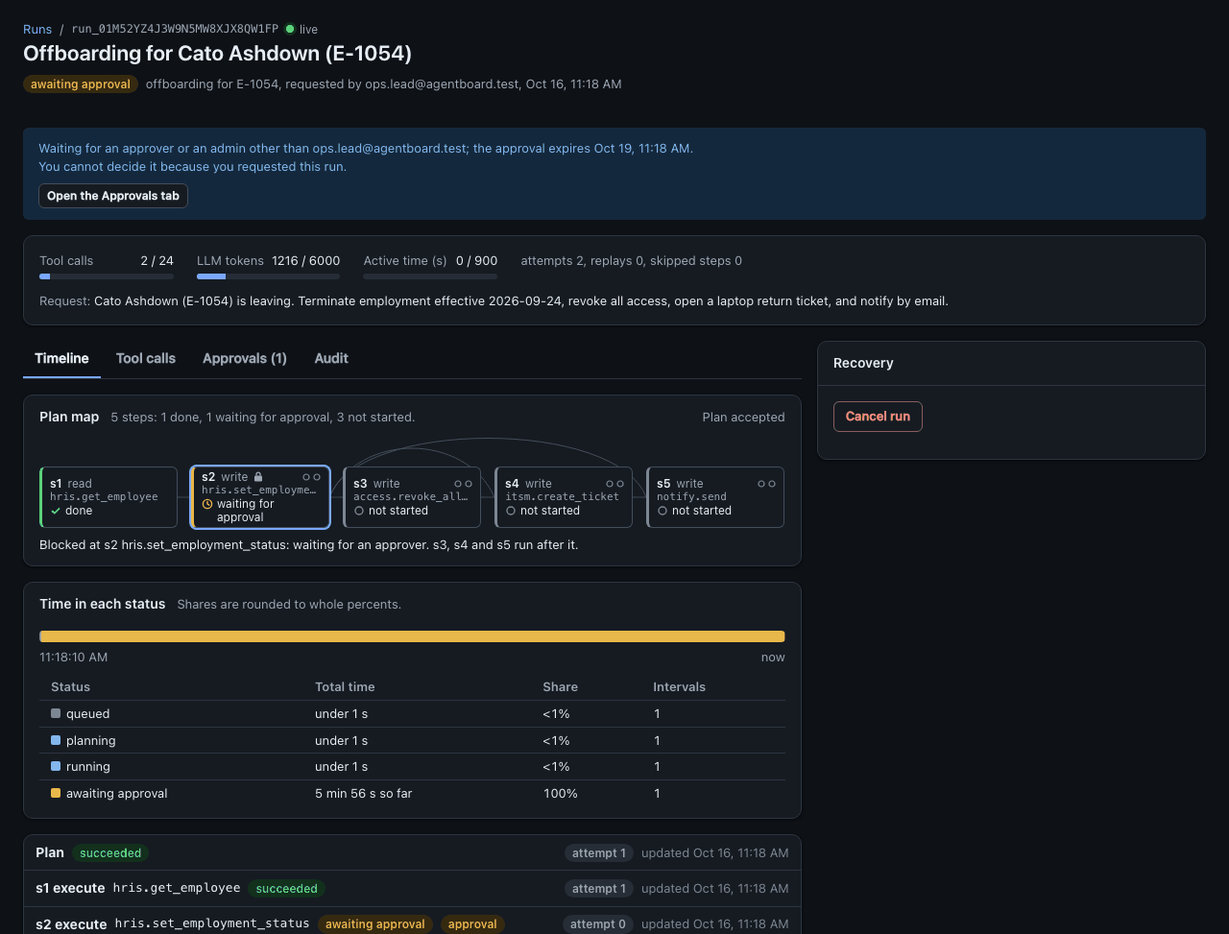
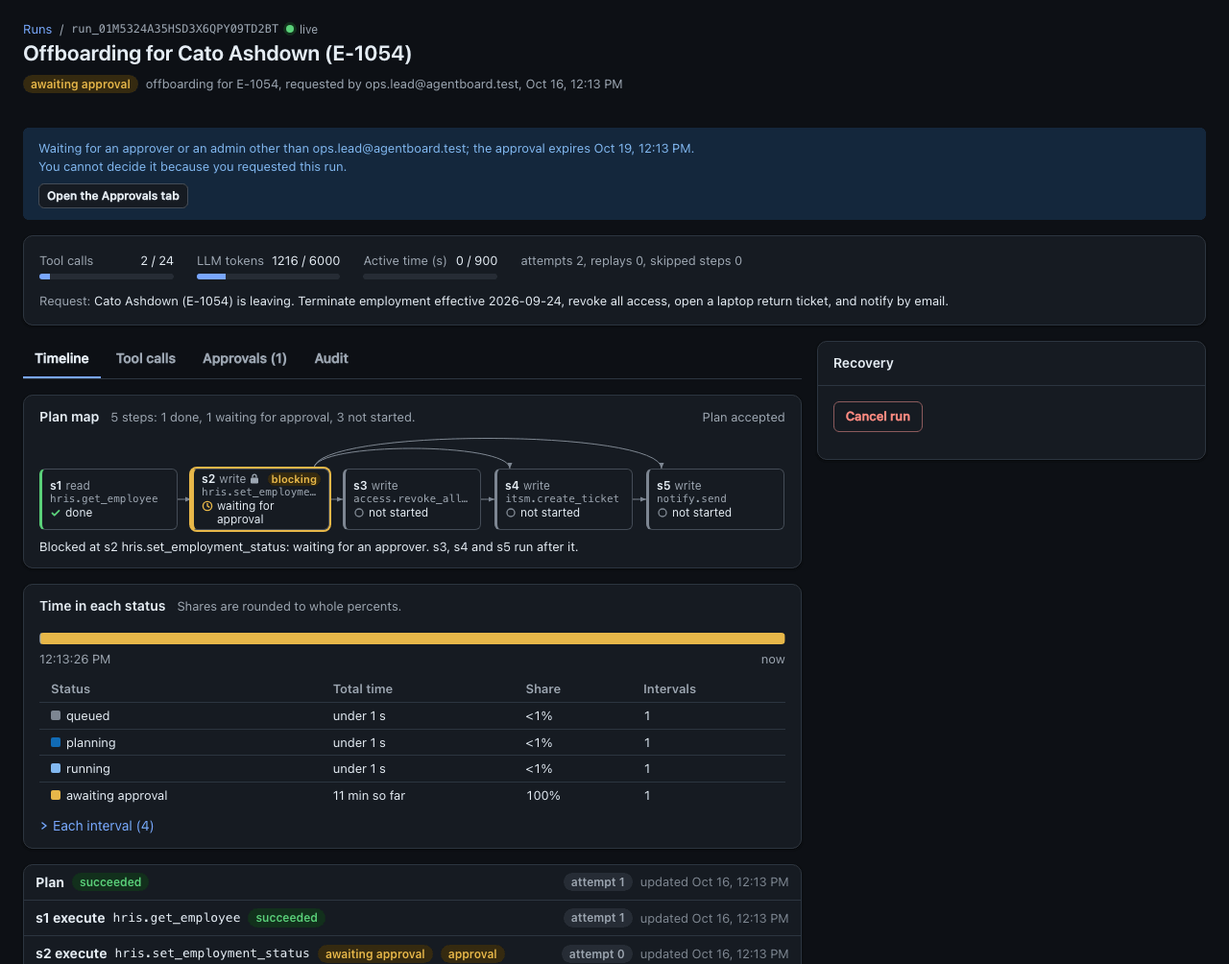
docs: the status view fixes in USER-WORKFLOWS, DEMO, the CHANGELOG and the README, with new run detail screenshots
USER-WORKFLOWS gets "Fixed after review (2026-10-16)" with the nine
findings and what changed, and its walkthroughs describe the blocker's
ring and word, the connectors and "Each interval". Its item on the run
lists no longer names `task_failed:injected_permanent` as a code the
lists stopped showing: a failure without a sentence of its own still
shows its code in parentheses, and the item says so.

DEMO.md said the notification step reads "runs after s2". On a wide
screen the dependency is a connector with an arrowhead; on a phone the
node reads "after s2"; "runs after s2" is the end of its accessible name.

The Events card claim is corrected: at 1280x800 on a local offboarding
waiting for its approval it starts at 1388 px, against 1368 px before
the status views and 1357 px before the "Each interval" line was added.

The five run detail screenshots (Timeline at 1280 and 375 px in both
themes, and the run whose write the verifier found missing) were taken
again from a local build with these fixes; the dashboard, runs and
approval screenshots show nothing these fixes change. The README links
the new section and counts 317 web tests.

diff --git a/docs/USER-WORKFLOWS.md b/docs/USER-WORKFLOWS.md
@@ -41,7 +41,7 @@ A principal without a role binding sees one page: "You are signed in as <email>,
 Follow a run:
 
 1. Dashboard opens with "Needs a person": "Pending approvals" ("Approvers and admins decide these"), "Needs attention" (for example "oldest unchanged for 2 h" and "3 need an operator, 1 an admin"), "Held by a disabled role" and "Paused", each a link to where that work is. Under "Moving" one tile counts "Active (queued, planning, running)" with "longest without a change: ..." and a line reads "87 succeeded, 6 rejected, 4 cancelled (all time)." Then come the "Needs attention" and "Recent runs" lists and "Agent roles". A viewer gets no "Open dead letters" tile; that tile and the "Dead-letter queue" panel are for operators and admins.
-2. In the run lists, "Waiting on" says who acts next and why, in words ("Admin" and "out of budget", "Approver" and "waiting for an approval", "Admin" and "held: a role is disabled"). Open a run from "Recent runs" or Runs. The header shows the status badge and, when the run waits or needs attention, a notice that says why and who can act (for example "Waiting for an approver or an admin other than ops.lead@agentboard.test; the approval expires ..."). The Timeline tab starts with the "Plan map": one node per step in columns by dependency, the step that blocks the run ringed, and a sentence such as "Blocked at s2 hris.set_employment_status: waiting for an approver. s3, s4 and s5 run after it." Each node is a button; Enter moves focus to that step's row in the task list. Under it, "Time in each status" shows the run's life on one bar with a table (Status, Total time, Share, Intervals), and the Events card shows "Key events" unless "All events (N)" is pressed.
+2. In the run lists, "Waiting on" says who acts next and why, in words ("Admin" and "out of budget", "Approver" and "waiting for an approval", "Admin" and "held: a role is disabled"). Open a run from "Recent runs" or Runs. The header shows the status badge and, when the run waits or needs attention, a notice that says why and who can act (for example "Waiting for an approver or an admin other than ops.lead@agentboard.test; the approval expires ..."). The Timeline tab starts with the "Plan map": one node per step in columns by dependency, connectors with arrowheads from each step to the steps that wait for it, the step that blocks the run ringed in its state colour and marked "blocking", and a sentence such as "Blocked at s2 hris.set_employment_status: waiting for an approver. s3, s4 and s5 run after it." Each node is a button; Enter moves focus to that step's row in the task list. Under it, "Time in each status" shows the run's life on one bar with a table (Status, Total time, Share, Intervals), and "Each interval (N)" lists every interval with when it ran and how long. The Events card shows "Key events" unless "All events (N)" is pressed.
 3. The request line reads "Request text is hidden for your role (it needs personal-data access)."
 4. Use the tabs (Timeline, Tool calls, Approvals, Audit) with the mouse or with the arrow keys; the open tab is in the URL (`?tab=calls`), so a reload or a shared link keeps it.
 5. In Tool calls, open a call with its tool-name button or by clicking the row. A viewer sees "Personal data is redacted for your role: addresses show only city, region and country, and personal email addresses are masked." above the arguments and result.
@@ -72,7 +72,7 @@ If an agent role is disabled, the Launch page says so with the reason and who di
 
 Recover a run that needs attention:
 
-1. Open the run. The plan map's sentence names the blocked step and who acts (for example "Blocked at s2 hris.update_address: verification failed: ... An operator or an admin can retry s2 execute to run the write again."), and its node is ringed. The notice under the header names the cause and the next step for an operator (for example, with the stub planner: "The planner failed on every attempt." and "Cancel this run and launch a sample."; for a write the verifier found missing: "Retry s2 execute (hris.update_address) in Recovery to run the write again; retrying s2 verify only reads the record again.").
+1. Open the run. The plan map's sentence names the blocked step and who acts (for example "Blocked at s2 hris.update_address: verification failed: ... An operator or an admin can retry s2 execute to run the write again."), and its node is ringed in red and marked "blocking". The notice under the header names the cause and the next step for an operator (for example, with the stub planner: "The planner failed on every attempt." and "Cancel this run and launch a sample."; for a write the verifier found missing: "Retry s2 execute (hris.update_address) in Recovery to run the write again; retrying s2 verify only reads the record again.").
 2. On a phone-width screen the Recovery card comes before the tabs when the run needs attention or is paused.
 3. Click a recovery button ("Pause run", "Cancel run", "Retry", "Release lease"). Task rows list a step's execute task before its verify task, and each task button's name for screen readers includes its task ("Retry s2 execute (hris.update_address)"). The dialog asks for "Reason (recorded in the audit log)"; Escape closes it, Tab stays inside it, and after Escape or Cancel focus returns to the button.
 4. Click "Confirm". The Recovery card says what happened ("Paused the run.", "Retry of the plan task requested.") or why the coordinator refused, in plain words, and focus moves to that line, because the command often replaces or removes its own button (Pause becomes Resume).
@@ -154,10 +154,10 @@ A review of the round above drove each persona through the console with Playwrig
 
 A round of visuals that answer a question a persona actually has, each built from data the API already returned or from a small read-only addition with the same permission check. Each item is a commit in this repository with its tests. Screenshots were taken locally (`npm run serve:built` with synthetic runs launched through the API, Chromium through Playwright), not in production.
 
-1. **Plan map (every role: where is this run, which step blocks it, what waits behind that step).** The task list showed one card per task, so the gating edges that make every write wait for the approval were invisible, and the step that blocked a run had to be found by reading every row. The Timeline tab now starts with a map of the plan: one node per step in columns by dependency (a gating edge that skips steps arcs above the row), the blocking step ringed, and one sentence that names it and who acts, in the run notice's words. Every node shows its state as a word and an icon, so nothing depends on colour, and is a button named like "s3 access.revoke_all_roles, write, not started, runs after s2"; activating it moves focus to that step's execute row. It draws from the tasks the page already holds, so the run page makes the same requests as before. Below 721 px it is a vertical stepper whose sentence comes first. The task list became one dense row per task, and on wide screens the plan line shares the map's caption row, so with the map and the status table below added the Events card still starts a little higher than before (1357 px from the top at 1280x800 on a local offboarding run waiting for its approval, against 1368 px before this round).
-2. **Time in each status (operator and approver: how long has this run been in its state, and where did its time go).** The answer was spread over about 30 to 50 audit rows. A bar on a real time axis now shows the run's intervals (waiting for an approval and paused in the warning colour, needing attention in the danger colour), with a table of each status's total time, share and number of intervals as its text alternative. The open interval grows from the client clock. The Events card shows key events by default (status changes, plan, approvals, final failures, retries, holds, budget and dead-letter events) and every event on request. The timeline API adds `statusFrom` and `statusTo` to status changes, as enum values only.
+1. **Plan map (every role: where is this run, which step blocks it, what waits behind that step).** The task list showed one card per task, so the gating edges that make every write wait for the approval were invisible, and the step that blocked a run had to be found by reading every row. The Timeline tab now starts with a map of the plan: one node per step in columns by dependency (a gating edge that skips steps arcs above the row), the blocking step ringed, and one sentence that names it and who acts, in the run notice's words. Every node shows its state as a word and an icon, so nothing depends on colour, and is a button named like "s3 access.revoke_all_roles, write, not started, runs after s2"; activating it moves focus to that step's execute row. It draws from the tasks the page already holds, so the run page makes the same requests as before. Below 721 px it is a vertical stepper whose sentence comes first. The task list became one dense row per task, and on wide screens the plan line shares the map's caption row, so with the map and the status table below added the Events card still started a little higher than before (1357 px from the top at 1280x800 on a local offboarding run waiting for its approval, against 1368 px before this round). The "Each interval" line added after review (below) moves it to 1388 px.
+2. **Time in each status (operator and approver: how long has this run been in its state, and where did its time go).** The answer was spread over about 30 to 50 audit rows. A bar on a real time axis now shows the run's intervals, each status in a colour of its own (amber and brown for waiting for an approval and paused, red for needing attention, two blues for planning and running), with a table of each status's total time, share and number of intervals as its text alternative. The open interval grows from the client clock. The Events card shows key events by default (status changes, plan, approvals, final failures, retries, holds, budget and dead-letter events) and every event on request. The timeline API adds `statusFrom` and `statusTo` to status changes, as enum values only.
 3. **"Needs a person" on the Dashboard (operator and admin: where is work stuck, for how long, who must act; approver: how many approvals can I decide, and when does the next expire).** Eight equal tiles gave "succeeded 87" the same weight as "needs attention 6", and the approver's work was a small button in the header. The first row now holds only work that waits for a person, with ages and the actor in words, each tile a link to where the work is done. Finished runs are one line. Viewers and approvers no longer get a dead-letter count for a panel they cannot open (the API sends them null).
-4. **Who acts next in the run lists (operator: which runs need me and why; admin: which need an admin; approver: which wait on an approval).** The lists printed raw codes such as `budget_exhausted` and `task_failed:injected_permanent`, a run whose tasks were held by a disabled role read only "running", and at 375 px the table was 910 px wide in a 341 px box, so no row showed its status. A "Waiting on" column now names the actor and the reason in words, a held run reads "held: a role is disabled" with the Admin chip, and phones get one card per run with its status and "Waiting on" first.
+4. **Who acts next in the run lists (operator: which runs need me and why; admin: which need an admin; approver: which wait on an approval).** The lists printed raw codes such as `budget_exhausted` and `task_failed:permanent_error`, a run whose tasks were held by a disabled role read only "running", and at 375 px the table was 910 px wide in a 341 px box, so no row showed its status. A "Waiting on" column now names the actor and the reason in words ("Admin" and "out of budget", "Operator" and "the tool refused the call"), a held run reads "held: a role is disabled" with the Admin chip, and phones get one card per run with its status and "Waiting on" first. A task failure without a sentence of its own still shows its code in parentheses, for example "a task failed (injected_permanent)" for a simulation fault.
 5. **What approving unlocks (approver, at the moment of decision: if I approve this, which writes run next on this person's record?).** The card showed only the gated step. Approving a termination also releases `access.revoke_all_roles`, which has no approval of its own. The card now lists what already ran, the step that needs this approval and the writes that run after it, and says what a rejection does.
 6. **Approval queue by urgency (approver: which approval should I decide first so none expires?).** The pending tab listed the newest first, 50 at a time with no paging, so once more than 50 waited the ones closest to expiring were not shown at all. It now lists the soonest expiry first and opens with a summary line, and each pending card has a time-left meter that turns to the warning colour under 24 hours and the danger colour under 6, with the time left always in words.
 
@@ -165,9 +165,9 @@ Screenshots, all from the same local build and synthetic runs, signed in as the 
 
 ![Dashboard at 1280 px as an operator: the "Needs a person" tiles, the Moving tile and the Needs attention list with its Waiting on column](screenshots/dashboard-1280-light.png)
 
-![Run detail at 1280 px for an offboarding waiting for its approval: the plan map with s2 ringed, the gating arcs to s4 and s5, the blocking sentence, and Time in each status](screenshots/run-timeline-1280-light.png)
+![Run detail at 1280 px for an offboarding waiting for its approval: the plan map with s2 ringed in amber and marked blocking, the gating arcs from s2's top edge to s4 and s5, the blocking sentence, and Time in each status](screenshots/run-timeline-1280-light.png)
 
-![Run detail at 1280 px for an address change whose write the verifier found missing: the plan map rings s2 with "verification failed" and says an operator or an admin can retry s2 execute; Time in each status shows most of the run's life as needs attention](screenshots/run-needs-attention-1280-light.png)
+![Run detail at 1280 px for an address change whose write the verifier found missing: the plan map rings s2 in red, marked blocking, with "verification failed" and says an operator or an admin can retry s2 execute; Time in each status shows most of the run's life as needs attention](screenshots/run-needs-attention-1280-light.png)
 
 ![The approval queue at 1280 px in the dark theme: the summary line, time-left meters, and What approving unlocks open on a termination](screenshots/approvals-1280-dark.png)
 
@@ -185,4 +185,18 @@ Every view at both widths and in both themes:
 | Approval queue (summary line, time-left meters, What approving unlocks) | [light](screenshots/approvals-1280-light.png) | [dark](screenshots/approvals-1280-dark.png) | [light](screenshots/approvals-375-light.png) | [dark](screenshots/approvals-375-dark.png) |
 
 Server changes in this round are read paths only, each behind `runs:read` like before: four fields added to `/api/metrics/summary` (and `dlqOpen` null without `dlq:read`), `heldTasks` on run summaries, the pending approvals' order and cursor, and two enum fields on timeline status changes. Authorization, approvals, idempotency, budgets and redaction are unchanged.
+
+## Fixed after review (2026-10-16)
+
+A review of the status views drove them with Playwright against `npm run serve:built` and found these problems. Each was checked in the code and the browser before it was fixed; each is a commit with its tests, and none touches the server. The run detail screenshots above were taken again after the fixes.
+
+1. **Gating arcs pointed at the wrong step.** An arc that skipped steps left the source's right side and rose behind the next step, whose box is opaque, so on an offboarding the s2 to s4 and s2 to s5 arcs seemed to come out of s3: the map pointed at the wrong step as the one that holds the others back. Arcs now leave the source's top edge and land on the target's top edge, a longer arc flying higher, and an edge that skips columns outside the first row runs through the gaps between steps. A test samples every connector and checks that none passes behind a step that is neither its source nor its target.
+2. **The blocker looked like keyboard focus.** Both were a 2 px blue ring, so with focus on another step two nodes looked the same. The blocking step's ring now takes its state colour (amber or red), the node says "blocking", and its name for screen readers adds "blocking the run"; focus stays the blue outline.
+3. **Faint connectors.** On wide screens the connectors are the only sign of a dependency ("after s2" is shown only on phones), and they measured 1.83:1 against the card in light and 2.02:1 in dark. They now use the faint text colour (3.07:1 and 4.75:1) and end in an arrowhead at the step that waits.
+4. **Statuses sharing a colour.** Planning and running were the same blue and awaiting approval and paused the same amber, so neighbouring segments looked like one band and two rows of the table had the same swatch. Each status now has its own colour. The palette check also failed the old amber and red pair (awaiting approval, then needs attention after an approval expires) for normal vision, so needs attention moved to a lighter red. Every pair that can touch on the bar now passes the checks for normal and colour-blind vision, and a test computes them from the colour tokens.
+5. **Intervals only in the tooltip.** Each interval's start and end could be read only by moving through the bar with the arrow keys, which screen readers in browse mode do not pass to the bar, and the bar's name told them to. The tooltip was also read out when the mouse moved over the bar. "Each interval (N)" now lists every interval with when it ran and how long, the bar's name points to it, and only arrow-key moves are announced.
+6. **Unexplained marks.** Each write step showed two small marks for write and verify progress with no explanation. They are gone: the state word says where the step is, and the task list below names each task's status.
+7. **Dashboard names and headings.** The "Needs attention" tile's name for assistive technology ("3 runs need attention, ...") did not contain its visible label, so a voice command such as "click Needs attention" could miss it. Every tile's name now starts with its label ("Needs attention: 3 runs, oldest unchanged for 10 minutes, ..."). The lists and agent panels now sit under headings of their own ("Runs", "Agents and dead letters"; read by screen readers, not shown) instead of reading as parts of "Moving".
+8. **Untested loading and error states.** Tests now cover "Time in each status" and the Events card while the timeline loads, after it fails, and after Try again.
+9. **Docs.** `DEMO.md` said the notification step reads "runs after s2"; on a wide screen the dependency is a connector, and on a phone the node reads "after s2". This page used `task_failed:injected_permanent` as a code the lists no longer show, but a failure without a sentence of its own still shows its code; item 4 above now says so.
 

diff --git a/README.md b/README.md
@@ -8,9 +8,9 @@ AgentBoard is an operations console for launching, monitoring and controlling ag
 
 **Live demo.** [`docs/DEMO.md`](docs/DEMO.md) is the interview walkthrough of the production deployment: an operator's request, an approval and a rejection in a second window, talking points tied to the results files, and a local fallback.
 
-**User workflows.** [`docs/USER-WORKFLOWS.md`](docs/USER-WORKFLOWS.md) walks through each persona's workflows in the console and lists what the 2026-10-15 workflow round changed and why, what a review of that round fixed, and the [2026-10-16 status views](docs/USER-WORKFLOWS.md#changed-on-2026-10-16): a plan map that shows which step blocks a run and what waits behind it, time in each status, a dashboard of the work that waits for a person, who acts next in the run lists, what approving an approval unlocks, and the approval queue in order of expiry, with screenshots of each view at 1280 and 375 px in the light and dark themes.
+**User workflows.** [`docs/USER-WORKFLOWS.md`](docs/USER-WORKFLOWS.md) walks through each persona's workflows in the console and lists what the 2026-10-15 workflow round changed and why, what a review of that round fixed, and the [2026-10-16 status views](docs/USER-WORKFLOWS.md#changed-on-2026-10-16): a plan map that shows which step blocks a run and what waits behind it, time in each status, a dashboard of the work that waits for a person, who acts next in the run lists, what approving an approval unlocks, and the approval queue in order of expiry, with screenshots of each view at 1280 and 375 px in the light and dark themes, and [what a review of those views fixed](docs/USER-WORKFLOWS.md#fixed-after-review-2026-10-16).
 
-![Run detail for an offboarding waiting for its approval: the plan map rings s2, arcs its gating edges to s4 and s5, and says who acts; Time in each status follows (local build, synthetic data)](docs/screenshots/run-timeline-1280-light.png)
+![Run detail for an offboarding waiting for its approval: the plan map rings s2 and marks it blocking, arcs its gating edges from s2's top edge to s4 and s5, and says who acts; Time in each status follows (local build, synthetic data)](docs/screenshots/run-timeline-1280-light.png)
 
 The design is in [`SPEC.md`](SPEC.md), the domain terms in [`CONTEXT.md`](CONTEXT.md), the main decisions in [`docs/adr/`](docs/adr) (coordinator leases and queues, the integration ledger and call-bound tokens, policy-owned approvals with gating edges, derived run status with recovery cascades, measured results with a staleness check), and the milestone demo scripts in [`demos/`](demos).
 
@@ -249,7 +249,7 @@ What changed for the Free plan: one outbox flush makes at most 16 binding calls 
 
 - `npm test` runs five projects: `worker` (workerd), `worker-ws` (WebSockets, isolation off as the Cloudflare known-issues page requires), `worker-access` (production Access verification against an intercepted JWKS), `web` (React components, pages, the API client and the session flows in happy-dom) and `node` (script math and launchers).
 - `npm run test:sim` drives all 100 synthetic requests through the real API, queue, coordinator, agents and MCP tools in workerd, with the same driver as `eval:sim`.
-- 110 tests are tagged `orchestration` or `authz`: the 100 planned in SPEC section 13.1, plus 4 added with the fixes of an independent review (`plan-guard.test.ts` #2, `planner.test.ts` #5 and #6, `websocket-auth.test.ts` #5), 2 added with later fixes (`planner.test.ts` #7, planner tasks sharing a catalog read in flight; `websocket-auth.test.ts` #6, WebSocket reauthorization), 2 added with the fixes of a second review (`state-machine.test.ts` "verify and plan recovery ..."; `executor.test.ts` "journal fast path ..."), 1 added for the Free plan (`outbox-audit.test.ts` "one flush makes at most OUTBOX_ROUNDS_PER_FLUSH D1 calls ...") and 1 added with the dashboard's status counts (`metrics-summary.test.ts` "decidableByYou counts only approvals the principal could decide ..."). `npm run count:tests` counts them with `vitest list --tags-filter` and runs them for pass counts; CI checks the README against the count. The other tests (search, MCP tools and the dev-only `/mcp` route, LLM providers, the data generator, 301 web tests of React components and pages, the API client, the session flows and the plan, status and time helpers, eval math and results provenance, the deploy tooling, launchers and the toolchain gate) carry their own tags and are not part of that count.
+- 110 tests are tagged `orchestration` or `authz`: the 100 planned in SPEC section 13.1, plus 4 added with the fixes of an independent review (`plan-guard.test.ts` #2, `planner.test.ts` #5 and #6, `websocket-auth.test.ts` #5), 2 added with later fixes (`planner.test.ts` #7, planner tasks sharing a catalog read in flight; `websocket-auth.test.ts` #6, WebSocket reauthorization), 2 added with the fixes of a second review (`state-machine.test.ts` "verify and plan recovery ..."; `executor.test.ts` "journal fast path ..."), 1 added for the Free plan (`outbox-audit.test.ts` "one flush makes at most OUTBOX_ROUNDS_PER_FLUSH D1 calls ...") and 1 added with the dashboard's status counts (`metrics-summary.test.ts` "decidableByYou counts only approvals the principal could decide ..."). `npm run count:tests` counts them with `vitest list --tags-filter` and runs them for pass counts; CI checks the README against the count. The other tests (search, MCP tools and the dev-only `/mcp` route, LLM providers, the data generator, 317 web tests of React components and pages, the API client, the session flows, the plan, status and time helpers, the stylesheet and the status colours, eval math and results provenance, the deploy tooling, launchers and the toolchain gate) carry their own tags and are not part of that count.
 - `.github/workflows/ci.yml` runs on every branch push and pull request: `types:check`, `typecheck`, `synth:check`, `npm test`, `test:sim`, `count:tests -- --check`, `results:check` and `build`, then prints the worker bundle size. Its record on GitHub is under "History, pull requests and authorship" below. `preview.yml` and `release.yml` are described under "Preview deployments from pull requests" and Releases.
 
 ## Releases

diff --git a/CHANGELOG.md b/CHANGELOG.md
@@ -84,12 +84,20 @@ Console workflow fixes after a review of that round (2026-10-15; `docs/USER-WORK
 
 Status at a glance (2026-10-16; `docs/USER-WORKFLOWS.md`, "Changed on 2026-10-16", with screenshots):
 
-- Run detail's Timeline tab starts with a Plan map: one node per step in columns by dependency, the gating edges drawn (an edge that skips steps arcs above the row), the step that blocks the run ringed, and one sentence naming it and who acts ("Blocked at s2 hris.set_employment_status: waiting for an approver. s3, s4 and s5 run after it."). Each node is a button named like "s3 access.revoke_all_roles, write, not started, runs after s2" that moves focus to that step's task row. It uses the tasks the page already has; below 721 px it is a vertical stepper. The task list is one dense row per task, and on wide screens the plan line shares the map's caption row, so the Events card starts no lower than before the map and the status bar were added.
-- After the map, "Time in each status" shows the run's life on one bar on a real time axis with a table of each status's total time, share and intervals; the Events card shows key events by default and every event on request. The timeline API adds `statusFrom` and `statusTo` (enum values only) to `run.status_changed` entries.
+- Run detail's Timeline tab starts with a Plan map: one node per step in columns by dependency, the gating edges drawn (an edge that skips steps arcs above the row), the step that blocks the run ringed in its state colour and marked "blocking", and one sentence naming it and who acts ("Blocked at s2 hris.set_employment_status: waiting for an approver. s3, s4 and s5 run after it."). Each node is a button named like "s3 access.revoke_all_roles, write, not started, runs after s2" that moves focus to that step's task row. It uses the tasks the page already has; below 721 px it is a vertical stepper. The task list is one dense row per task, and on wide screens the plan line shares the map's caption row. At 1280x800 on a local offboarding waiting for its approval the Events card starts at 1388 px, against 1368 px before the round (1357 px before the review added the "Each interval" line).
+- After the map, "Time in each status" shows the run's life on one bar on a real time axis, each status in its own colour, with a table of each status's total time, share and intervals and a list of every interval behind "Each interval (N)"; the Events card shows key events by default and every event on request. The timeline API adds `statusFrom` and `statusTo` (enum values only) to `run.status_changed` entries.
 - The Dashboard's first row is "Needs a person": approvals (for approvers and admins, how many they can decide and when the next expires), runs that need attention (oldest age, how many need an operator or an admin), runs held by a disabled role, paused runs and, for roles that can read the dead-letter queue, open dead letters. Each tile links to where the work is done. One "Moving" tile and an all-time line replace the other counts. `/api/metrics/summary` adds `open`, `needsAttentionByReason`, `approvals` and `heldRuns` in the same single `db.batch`, and `dlqOpen` is now null for roles without `dlq:read`.
 - Run lists (Dashboard and Runs) have a "Waiting on" column with the actor and a plain sentence instead of the raw status reason, show "held: a role is disabled" for a run its tasks wait on, and are cards on phones. `RunSummary` adds `heldTasks`.
 - Pending approval cards have "What approving unlocks" (what already ran, the step that needs this approval, the writes that run after it) and a time-left meter. The pending queue is sorted soonest expiry first, with its own cursor (a cursor from another order answers 400), and opens with a summary line ("3 waiting: 2 you can decide, 1 high risk. Next expires in 2 d 23 h.").
 - Simulation, planner and test results measured again on this code (110 tagged tests: one `authz` test added for the summary's per-principal fields).
+
+Fixes from a review of the status views (2026-10-16; `docs/USER-WORKFLOWS.md`, "Fixed after review (2026-10-16)"):
+
+- Plan map: arcs that skip steps run from the source's top edge to the target's (they used to rise behind the next step and seem to come out of it), other skipping edges run through the gaps between steps, and every connector ends in an arrowhead and keeps 3:1 against the card. The blocking step is ringed in its state colour and marked "blocking", so it no longer looks like keyboard focus, and the unexplained write and verify marks are gone.
+- Time in each status: each status has its own colour (planning and running, and awaiting approval and paused, used to share one; needs attention moved off the amber's lightness), checked for normal and colour-blind vision by a test. "Each interval (N)" lists every interval with its start, end and duration; the tooltip is no longer a live region, and only arrow-key moves are announced.
+- Dashboard: every tile's accessible name starts with its visible label, and the run lists and agent panels sit under headings of their own.
+- Tests for the Timeline cards' loading and error states; `DEMO.md` and `USER-WORKFLOWS.md` corrected where they described the map or the run lists inaccurately.
+- Simulation, planner and test results measured again on this code.
 
 History note: commit `7ff7a92` ("docs: README with status, architecture, design decisions, local setup and roadmap") and the README part of `b7a3199` were written by a parallel session working in the same tree, not by this build's commit sequence; read them as AI-assisted like the rest. The README it wrote was later replaced entirely, and the history was left as it is (rewriting it would also move the four milestone tags). In the working repository the build commits to, every commit except that README commit carries a `Co-Authored-By: Claude` trailer. The GitHub history is copied from that repository by a separate publish step that removes those trailers, so no commit on GitHub carries one.
 

diff --git a/docs/DEMO.md b/docs/DEMO.md
@@ -62,7 +62,7 @@ Launch both requests at the start, because planning takes a while. In production
 |---|---|---|---|
 | 0:00 | 1 (operator) | Show the dashboard. Point at the nav bar: the `production` badge, your email and the `operator` badge. | What it is. The People org is simulated; the Cloudflare stack is real. |
 | 0:30 | 1 | Launch the manager change (step 3 below), then the privileged grant (step 4). | The planner is the only model. The request text is treated as untrusted data, and policy lives in code. |
-| 1:15 | 1 | Open the manager change run. On the Timeline, the "Plan map" comes first: the `hris.update_manager` step carries the lock and reads `waiting for approval`, the notification step reads `runs after s2`, and the sentence under the map names the blocked step and who acts. One row per task follows. | One coordinator per run, leases, gating edges: before an approval, only reads run. |
+| 1:15 | 1 | Open the manager change run. On the Timeline, the "Plan map" comes first: the `hris.update_manager` step carries the lock, reads `waiting for approval` and is marked `blocking`, a connector with an arrowhead runs from it to the notification step, and the sentence under the map names the blocked step and who acts. One row per task follows. | One coordinator per run, leases, gating edges: before an approval, only reads run. |
 | 2:00 | 1 | Open its approval. It says "You requested this run, so you cannot decide its approval." | Separation of duties. The notice is the console's own-run check. The operator role lacks `approvals:decide`, so the API would refuse any decision with 403 `missing_permission` before the coordinator. The coordinator's `self_approval` rule covers admins, the only role that can both launch and approve (`approvals-sod.test.ts`). |
 | 2:30 | 2 (approver) | `Approvals`: approve the manager change, reject the privileged grant. Each needs a note. | Risk levels come from policy: `medium risk` for a manager change, `high risk` for a privileged grant. |
 | 3:15 | 1 | The manager change reaches `succeeded`. In `Tool calls`, expand the `hris.update_manager` row to show its idempotency key. In `Audit`, show "Hash chain verified". | Call-bound tokens, the integration ledger, the verifier, the hash chain. |
@@ -135,8 +135,8 @@ Open the manager change from `Runs` or the dashboard.
 - The header shows the breadcrumb "Runs / run_..." and a live indicator. It reads `live` while the WebSocket is connected and `offline` otherwise. The page also polls every 5 s (`usePolling` and `LiveIndicator` in `src/web`), so the demo works either way.
 - The title is "Manager change for Soren Galloway (E-1029)". The status badge moves from `queued` to `planning`, then `running`, then `awaiting approval`.
 - The meters are `Tool calls`, `LLM tokens` and `Active time (s)`. The default token budget is 6000 per run (`DEFAULT_BUDGET` in `src/shared/domain.ts`).
-- On the `Timeline` tab, the "Plan map" comes first: one node per step, in columns by dependency. The `hris.update_manager` node carries the lock and reads `waiting for approval`, the notification step reads `runs after s2` (its name for screen readers ends that way too), and the sentence under the map reads like "Blocked at s2 hris.update_manager: waiting for an approver. s3 runs after it." The step ids are the ones the plan uses (s1 to s3 in the dataset's plan for this request). On an offboarding, s3 to s5 wait behind the termination step, and the edges that skip steps arc above the row. Activating a node moves focus to its task row.
-- "Time in each status" follows: one bar from the run's creation to now and a table (Status, Total time, Share, Intervals). While the approval waits, "awaiting approval" grows with "so far".
+- On the `Timeline` tab, the "Plan map" comes first: one node per step, in columns by dependency. The `hris.update_manager` node carries the lock, reads `waiting for approval` and is marked `blocking` inside an amber ring. On a wide screen a connector with an arrowhead runs from it to the notification step; on a phone the notification step reads `after s2`. At any width its name for screen readers ends "runs after s2". The sentence under the map reads like "Blocked at s2 hris.update_manager: waiting for an approver. s3 runs after it." The step ids are the ones the plan uses (s1 to s3 in the dataset's plan for this request). On an offboarding, s3 to s5 wait behind the termination step, and the edges that skip steps arc above the row from its top edge to theirs. Activating a node moves focus to its task row.
+- "Time in each status" follows: one bar from the run's creation to now and a table (Status, Total time, Share, Intervals); "Each interval (N)" opens a list of every interval with when it ran and how long. While the approval waits, "awaiting approval" grows with "so far".
 - Then one row per task: `Plan` first, then `s1 execute`, `s2 execute`, and so on, with a `verify` task after each write. The `hris.update_manager` row carries the `approval` badge and stays `awaiting approval`. While a task runs, its row reads "leased by executor-0, epoch 1, until ...". The owner and epoch vary. The model numbers the steps, so they can differ from run to run.
 - The Events card shows "Key events" by default (`run.created`, the status changes, `plan.accepted`, `approval.requested`); "All events (N)" adds `task.leased`, `task.dispatched` and `tool.called`.
 - Open `Approvals (1)`. The card shows `pending`, `medium risk`, `hris.update_manager` and "Change the manager of E-1029 to E-1004", plus the notice "You requested this run, so you cannot decide its approval." The note field and both buttons are disabled.
